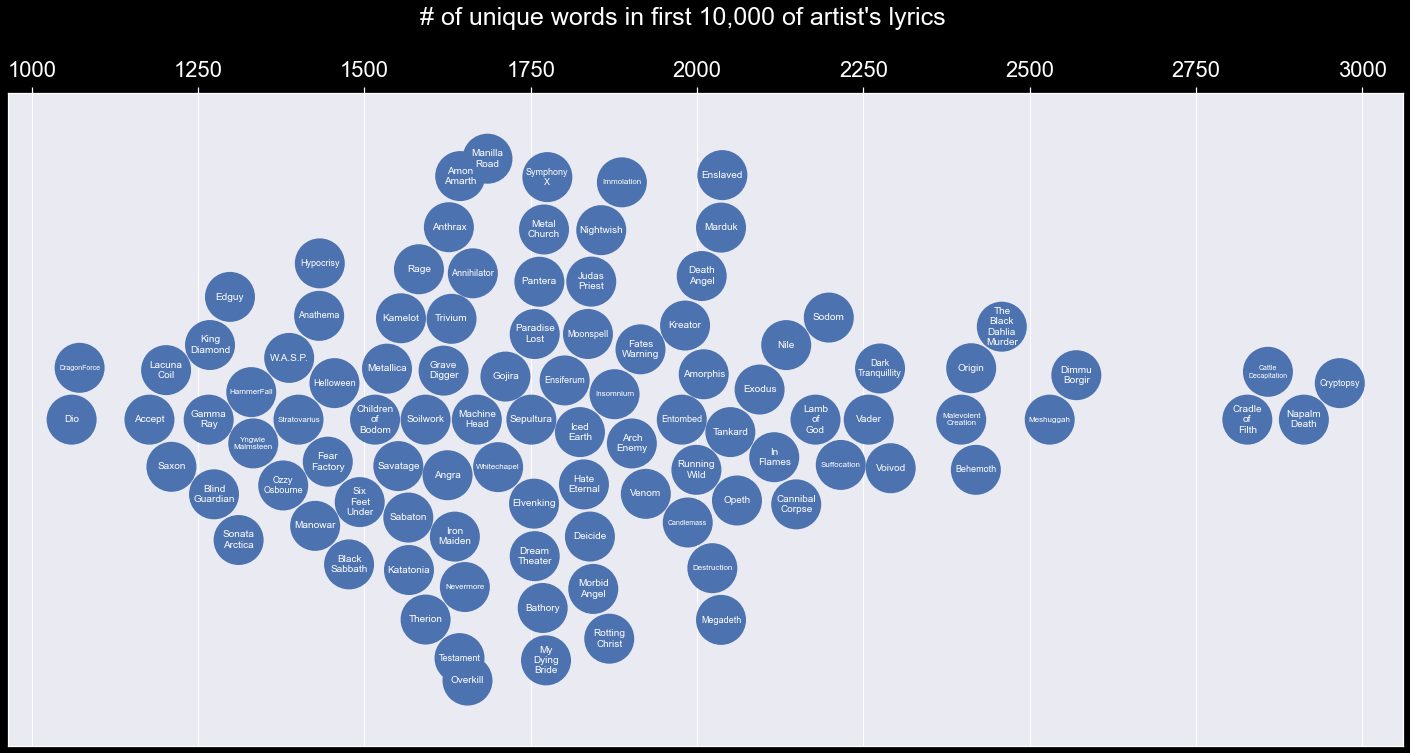
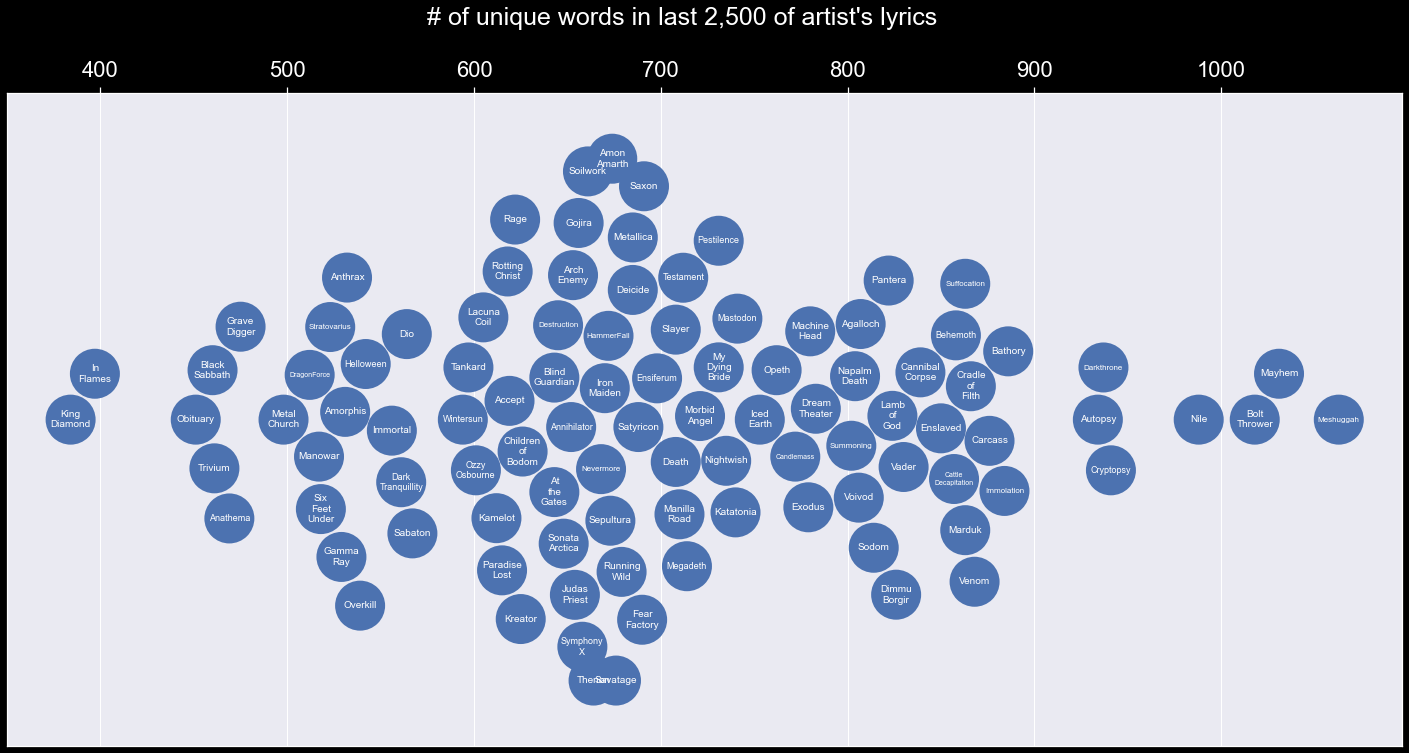
update lyrics-part-1 plot

diff --git a/_posts/2022-03-21-lyrics-part-1.md b/_posts/2022-03-21-lyrics-part-1.md
@@ -2343,18 +2343,21 @@ A few years ago, Matt Daniels of The Pudding wrote up [an article](https://puddi
 comparing the number of unique words used by several famous rappers in their first 35,000 words.
 A similar comparison can be done with the metal lyrics here,
 although since heavy metal tends to have more instrumentals and metal musicians don't put out as many songs as rappers do,
-I chose to look at each artist's first 10,000 words.
-Here, for clarity only the top 100 bands by number of album reviews are shown
-but the full plot at the top of the page shows the top 200.
+I chose to look at each artist's last 2,500 words,
+since the median word count per band is just above that number,
+and looking at the most recent lyrics will better represent the current style of each artist.
+For clarity only the top 100 bands by number of album reviews are shown here
+but the full plot in the interactive version shows the top 350.
 Interestingly, there's a gap between the cluster of highest unique words and the main field of artists.
 Every band in the outlier cluster is associated with death metal, hinting at a correlation in genre.
-On the dashboard you can filter by genres to see where on the swarm plot those bands lie.
+On the [dashboard](https://metal-lyrics-feature-plots.herokuapp.com)
+you can filter by genres to see where on the swarm plot those bands lie.
 
 
 <details>
 <summary>Show code</summary>
 {% highlight python %}
-,"""Copied from https://stackoverflow.com/questions/55005272/get-bounding-boxes-of-individual-elements-of-a-pathcollection-from-plt-scatter
+"""Copied from https://stackoverflow.com/questions/55005272/get-bounding-boxes-of-individual-elements-of-a-pathcollection-from-plt-scatter
 """
 
 from matplotlib.path import get_path_collection_extents
@@ -2450,14 +2453,15 @@ band_words.columns = ['name', 'reviews', 'words']
 <summary>Show code</summary>
 {% highlight python %}
 num_bands = 100
-num_words = 10000
+num_words = 2500
 
 band_filt_words = band_words[band_words['words'].apply(len) >= num_words].sort_values('reviews')[-num_bands:]
-band_filt_words['unique_first_words'] = band_filt_words['words'].apply(lambda x: len(set(x[:num_words])))
-band_filt_words = band_filt_words.sort_values('unique_first_words')
+band_filt_words['unique_last_words'] = band_filt_words['words'].apply(lambda x: len(set(x[-num_words:])))
+band_filt_words = band_filt_words.sort_values('unique_last_words')
+print(len(band_filt_words))
 
-fig = plot_swarm(band_filt_words['unique_first_words'], band_filt_words['name'])
-fig.suptitle(f"# of unique words in first {num_words:,.0f} of artist's lyrics", color='white', fontsize=25)
+fig = plot_swarm(band_filt_words['unique_last_words'], band_filt_words['name'])
+fig.suptitle(f"# of unique words in last {num_words:,.0f} of artist's lyrics", color='white', fontsize=25)
 plt.show()
 {% endhighlight %}
 </details><br>
